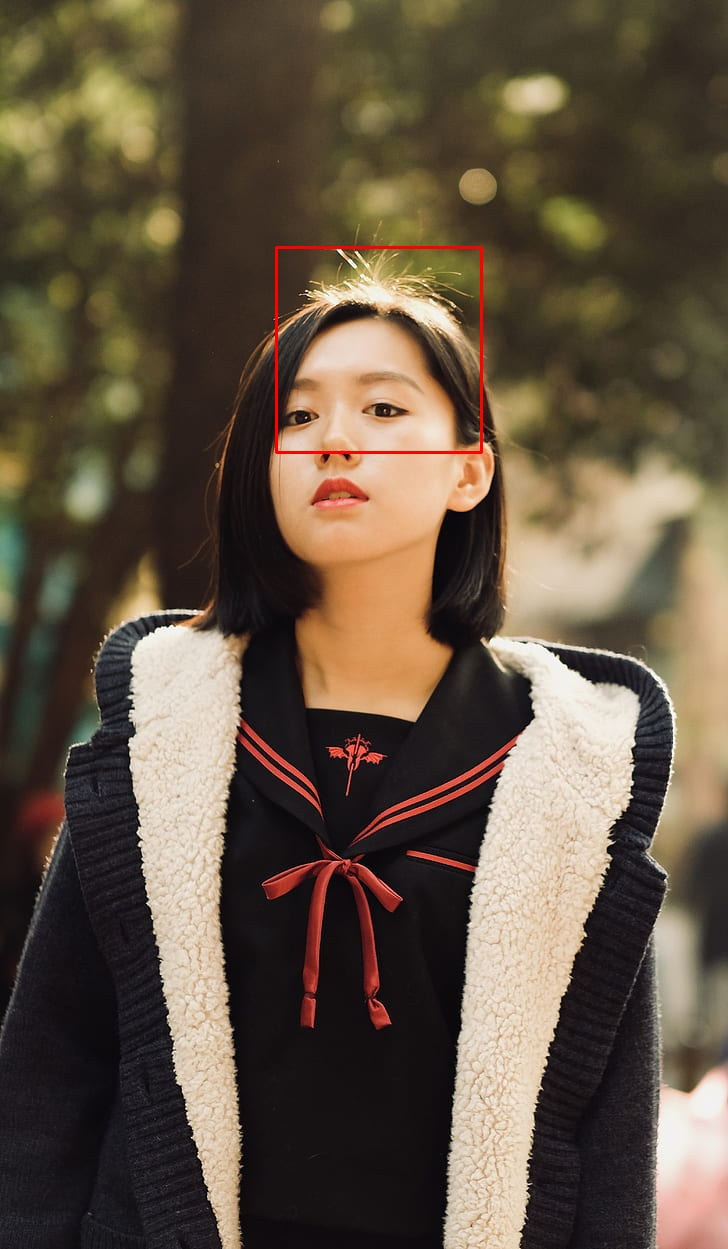
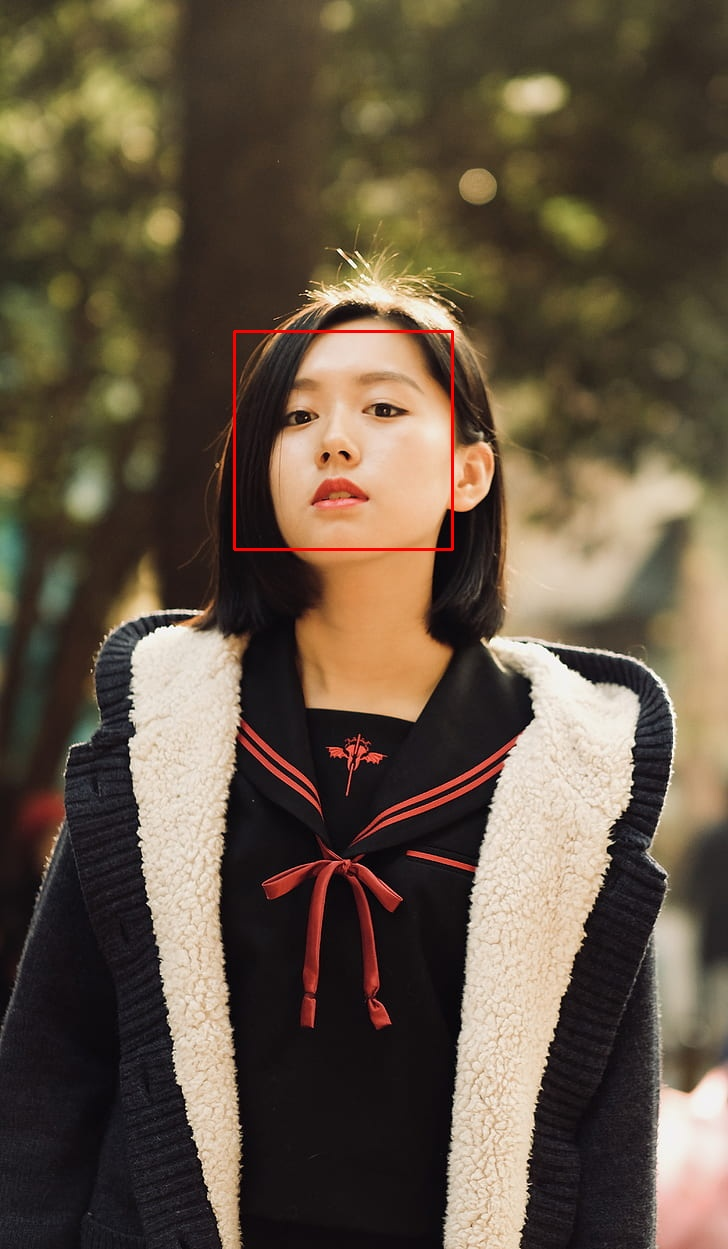
set to better scale for detecting faces at least in example point

Changed region(s): [[0.3022, 0.1873, 0.6648, 0.4371], [0.3324, 0.4371, 0.6044, 0.4684]]

diff --git a/main.py b/main.py
@@ -35,7 +35,7 @@ gray = cv2.cvtColor(img, cv2.COLOR_BGR2GRAY)
 face_cascade = cv2.CascadeClassifier("models/haarcascade_frontalface_alt2.xml") 
 
 # Detect faces 
-faces = face_cascade.detectMultiScale(gray, 1.1, 4)
+faces = face_cascade.detectMultiScale(gray, 1.2, 4)
 if len(faces) == 0:
     raise Exception("There were no detected faces in the image") 
 # We only need the first face
